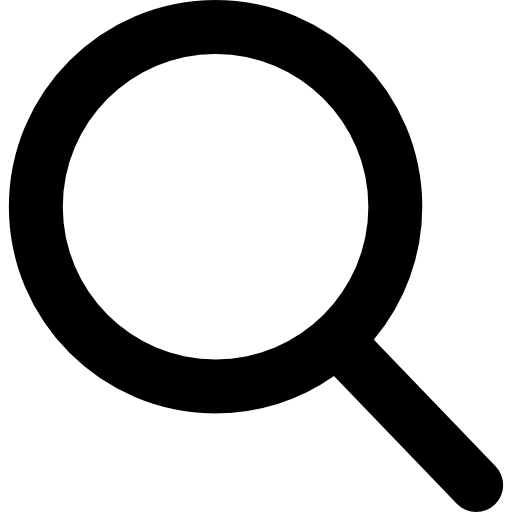
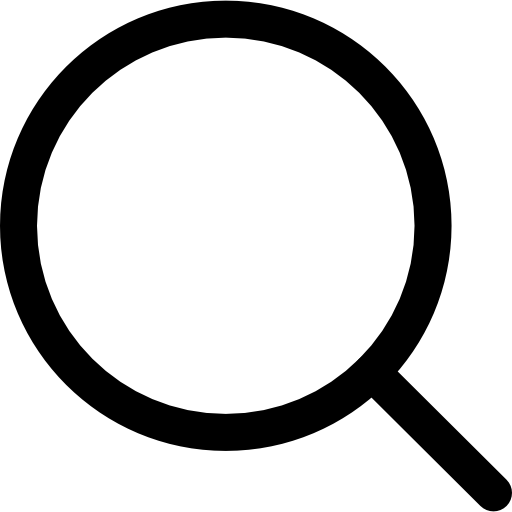
220405

diff --git a/HW1/html+css/css/test.css b/HW1/html+css/css/test.css
@@ -63,14 +63,13 @@ width:400px;
     border-bottom-color:#c9c9c9;
     background-color: #c9c9c900;
 }
-.search button{
-    border:none;
+.search a{
     padding:0;
 }
-.search button:hover{
+.search a:hover{
     cursor:pointer;
 }
-.search button img{
+.search img{
     width:18px;
 }
 /* header-siteurl */

diff --git a/HW1/html+css/test.html b/HW1/html+css/test.html
@@ -21,7 +21,7 @@
       <div class="search">
           <form>
             <input type="text" placeholder="Search.." name="search">
-            <button><img src="img/search.png"></button>
+            <a><img src="img/search.png"></a>
           </form>
         </div>
       <!-- header siteurl -->
